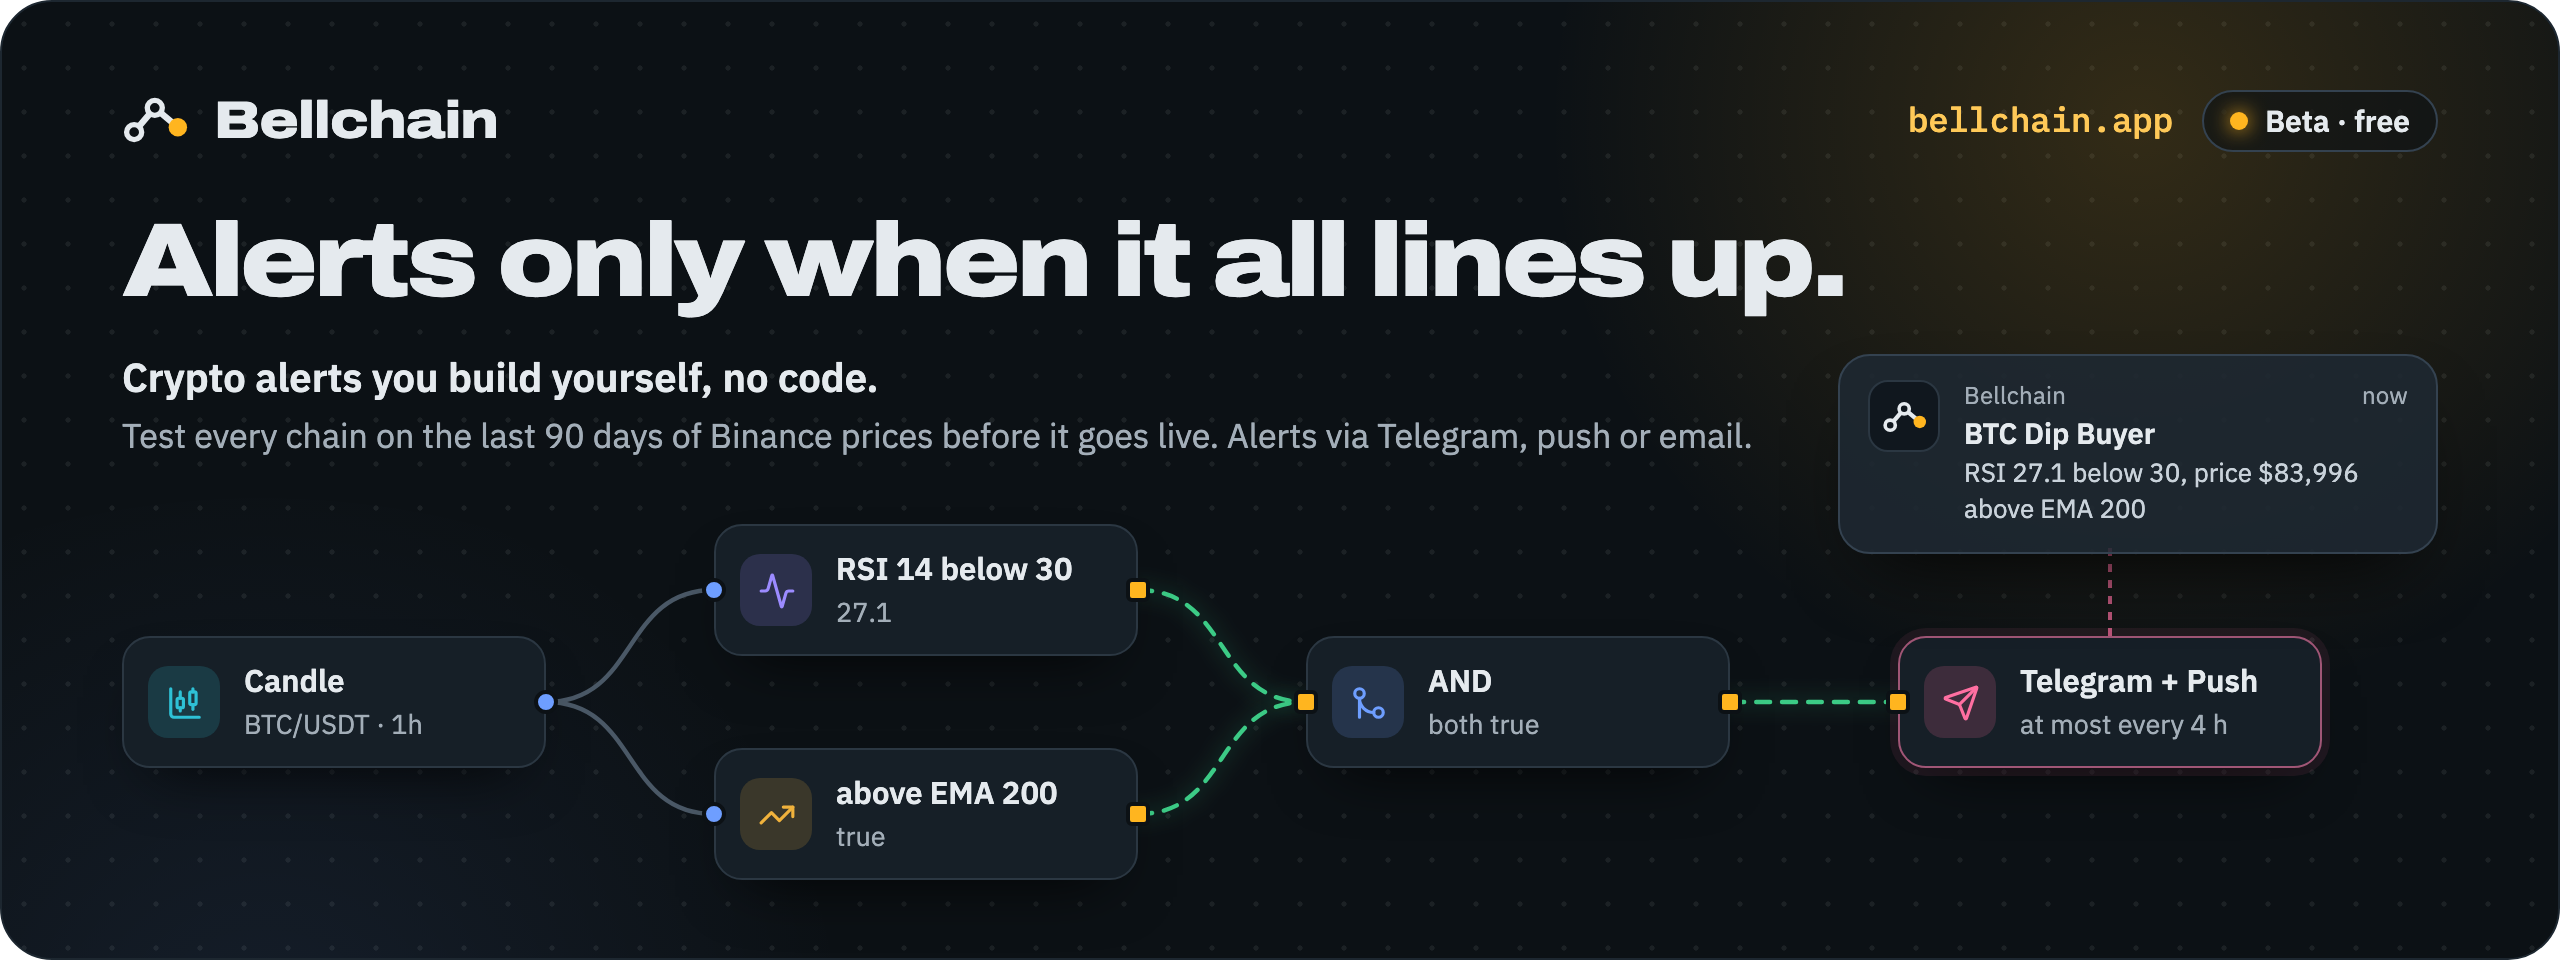
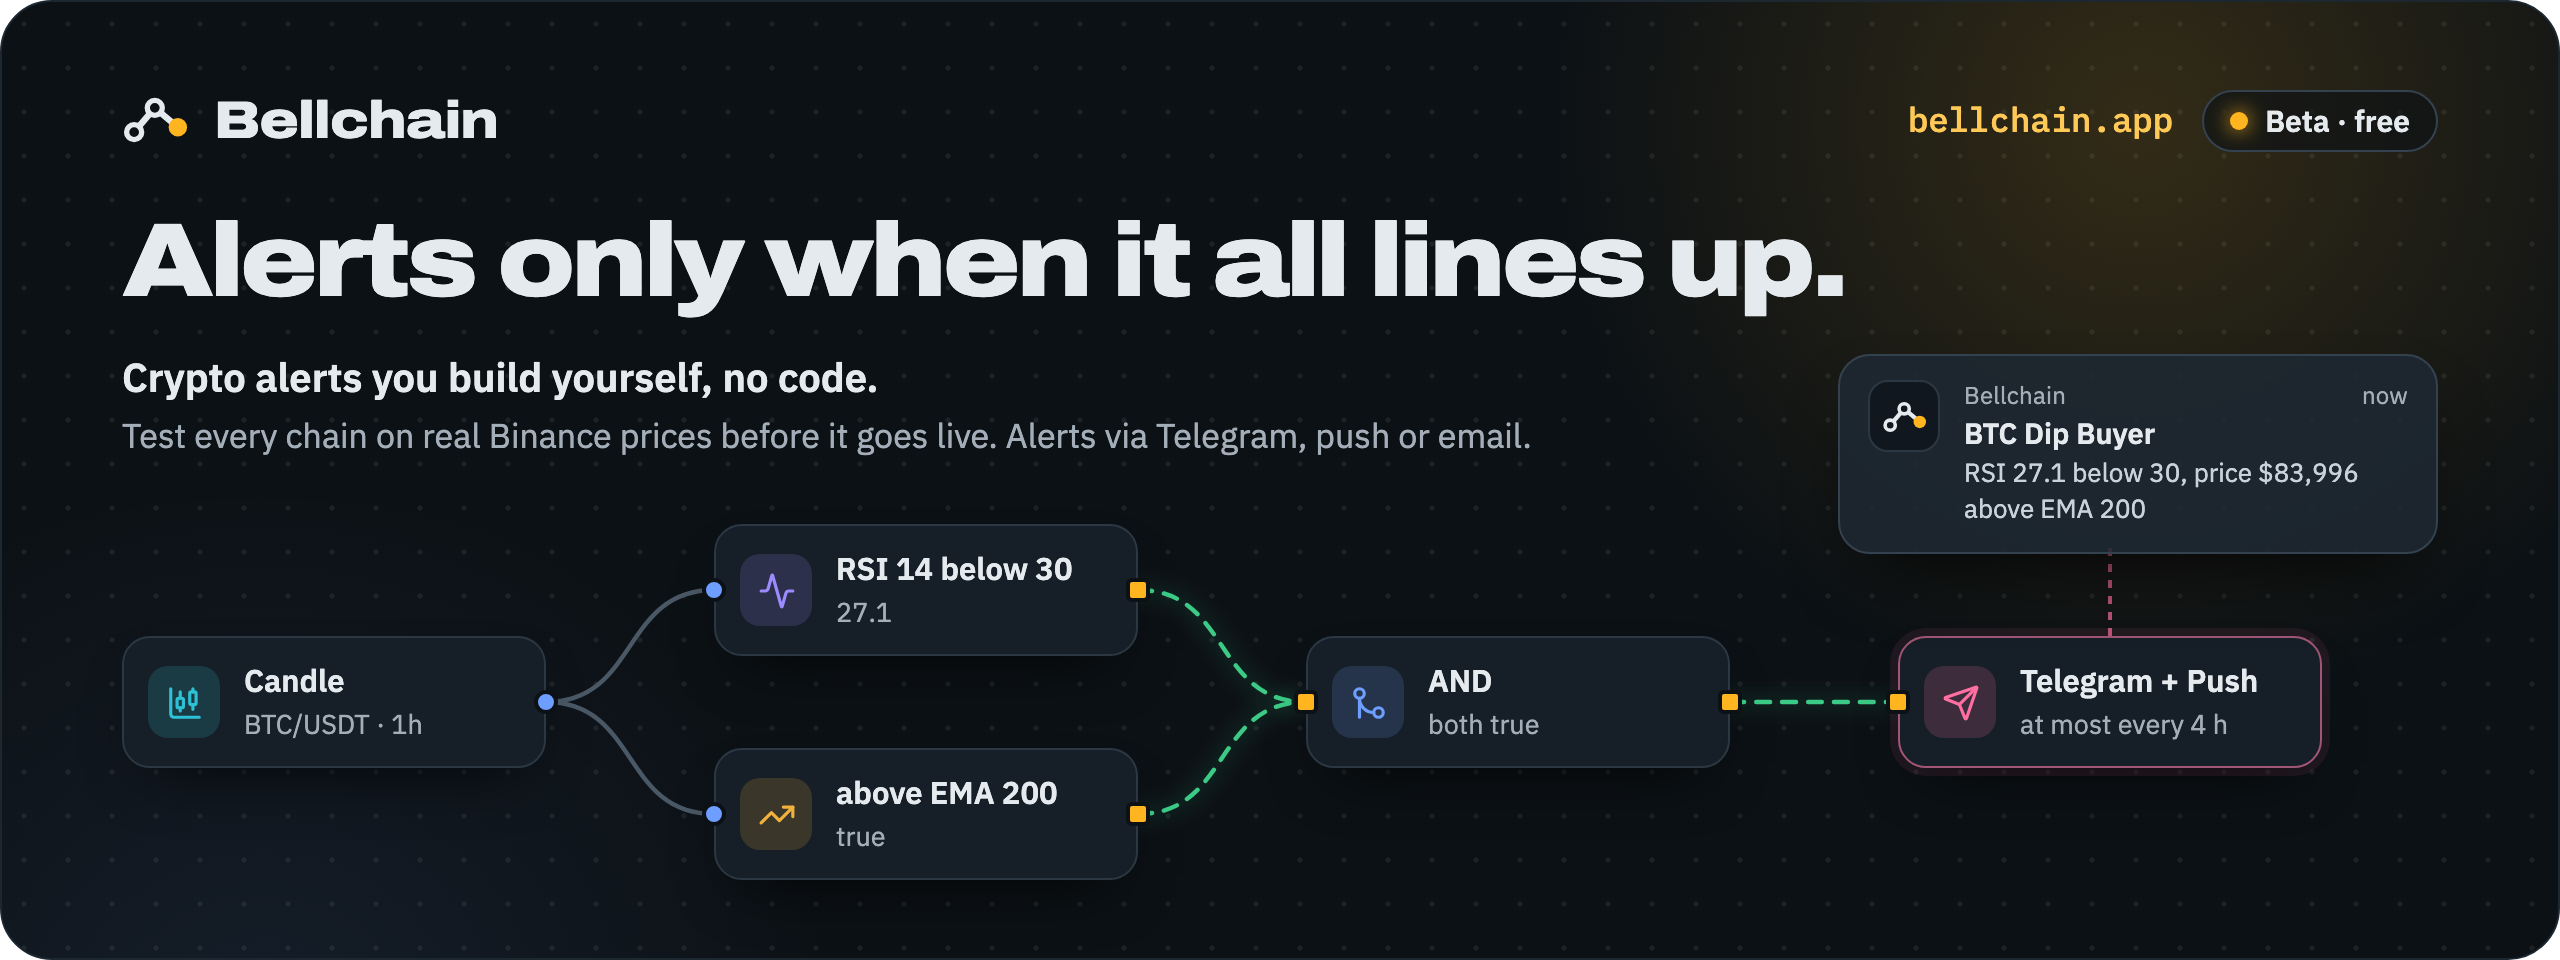
Profile: replay period depends on the plan (30 days up to a year)

Changed region(s): [[0.1562, 0.4375, 0.6875, 0.4688]]

diff --git a/profile/README.md b/profile/README.md
@@ -12,12 +12,12 @@
   <a href="https://t.me/bellchainapp"><b>Telegram channel</b></a>
 </p>
 
-**Bellchain** lets you build crypto alerts from nodes on a board, without code. Say you want to know when Bitcoin's RSI on the 1-hour chart drops below 30, but only while the price is above the EMA 200, and at most once every four hours. In Bellchain that's one chain: a candle, two indicators, two conditions, an AND and a Telegram node. Before it goes live, the replay shows how often it would have fired over the last 90 days of Binance prices.
+**Bellchain** lets you build crypto alerts from nodes on a board, without code. Say you want to know when Bitcoin's RSI on the 1-hour chart drops below 30, but only while the price is above the EMA 200, and at most once every four hours. In Bellchain that's one chain: a candle, two indicators, two conditions, an AND and a Telegram node. Before it goes live, the replay shows how often it would have fired on real Binance prices.
 
 ### How it works
 
 1. **Drag.** 25 nodes: candle source, indicators such as RSI, EMA, MACD and Bollinger Bands, conditions, logic and actions. Or start from a template.
-2. **Connect and test.** Wire outputs to inputs. The replay runs the chain over the last 90 days of real Binance prices and lists every alert it would have sent.
+2. **Connect and test.** Wire outputs to inputs. The replay runs the chain on real Binance prices, over the last 30 days up to a year depending on your plan, and lists every alert it would have sent.
 3. **Activate.** Alerts arrive via Telegram, push or email. After an alert, each action waits 4 hours by default before the next one.
 
 ### Built in the open
@@ -41,7 +41,7 @@ News and changelog in the Telegram channel [t.me/bellchainapp](https://t.me/bell
 <summary><b>Auf Deutsch</b></summary>
 <br>
 
-Mit Bellchain baust du dir Krypto-Alarme aus Bausteinen, ohne Code: etwa „RSI unter 30, aber nur, solange der Kurs über dem EMA 200 liegt“. Bevor eine Chain live geht, zeigt dir das Replay, wie oft sie mit den echten Binance-Kursen der letzten 90 Tage ausgelöst hätte. Alarme kommen per Telegram, Push oder E-Mail. In der Beta ist alles kostenlos.
+Mit Bellchain baust du dir Krypto-Alarme aus Bausteinen, ohne Code: etwa „RSI unter 30, aber nur, solange der Kurs über dem EMA 200 liegt“. Bevor eine Chain live geht, zeigt dir das Replay, wie oft sie mit echten Binance-Kursen ausgelöst hätte, je nach Plan in den letzten 30 Tagen bis zu einem Jahr. Alarme kommen per Telegram, Push oder E-Mail. In der Beta ist alles kostenlos.
 
 [Website](https://bellchain.app/de/) · [App öffnen](https://app.bellchain.app/) · [Doku](https://docs.bellchain.app/de/) · [Telegram-Kanal](https://t.me/bellchainapp)
 
